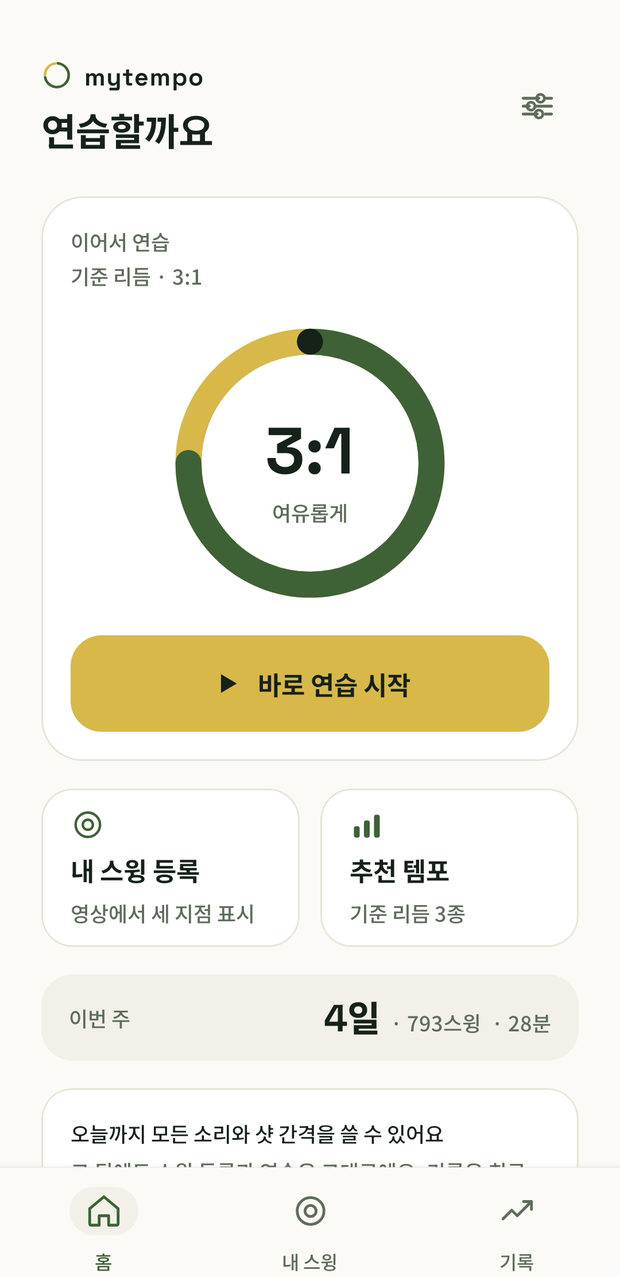
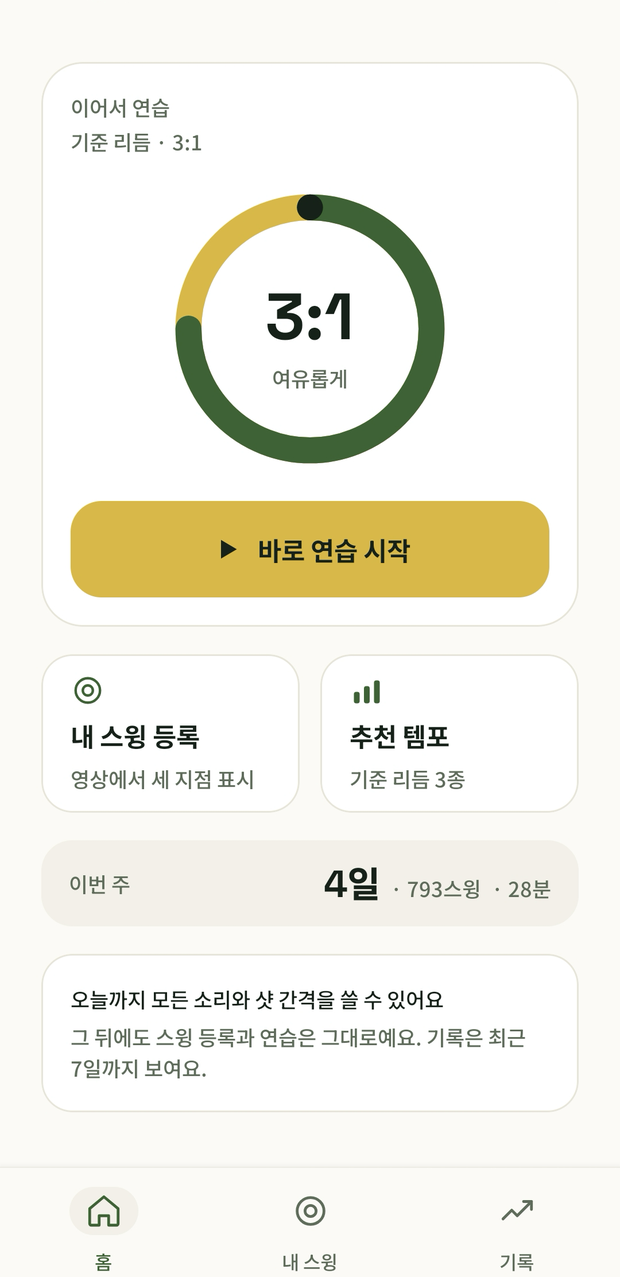
fix(c12): 한국어 홈 캡처를 스크롤 상태로 교체 — 잘린 문장 제거
앞 커밋의 한국어 캡처는 맨 아래 체험 안내 배너의 둘째 줄이
탭바에 걸려 끊겨 있었다. 히어로 이미지에 잘린 문장이 남는다.

한국어는 맨 아래까지 스크롤한 캡처로 바꾼다 — 배너가 온전해지고
헤더(워드마크 + "연습할까요")가 빠진다. 랜딩 자체가 이미 로고와
헤드라인을 크게 쓰므로 폰 목업은 제품 화면만 보여주는 편이 낫다.

영어는 헤더 버전 그대로 둔다. 영어는 내용이 더 길어(카드 2줄 +
배너 3줄) 바닥까지 스크롤하면 카드 윗머리가 잘린다 — 실측으로
확인했다(여백이 75~102 로 끝나고 103부터 잘린 카드다. 한국어는
75~182 여백 뒤 183 에서 카드가 온전히 시작한다).
헤더 버전에서는 배너가 접혀 있어 잘린 글자가 아예 없다.

→ 두 언어 모두 잘린 글자 0, 라이트/다크는 언어 안에서 동일 프레이밍.
크롭·리사이즈 규칙과 620x1277 은 앞 커밋 그대로다.

→ T-103 C-12

diff --git a/index.html b/index.html
@@ -117,7 +117,7 @@
           <source media="(prefers-color-scheme: dark)" srcset="/assets/app-home-dark.png">
           <source type="image/webp" srcset="/assets/app-home-light.webp">
           <img src="/assets/app-home-light.png" width="620" height="1277" decoding="async"
-               alt="mytempo 홈 화면 — 기준 리듬 3:1 템포 링과 백스윙·다운스윙 구간, [바로 연습 시작] 버튼, 그 아래 [내 스윙 등록]·[추천 템포] 카드">
+               alt="mytempo 홈 화면 — 기준 리듬 3:1 템포 링과 백스윙·다운스윙 구간, [바로 연습 시작] 버튼, [내 스윙 등록]·[추천 템포] 카드와 이번 주 연습 기록">
         </picture>
       </div>
     </div>
